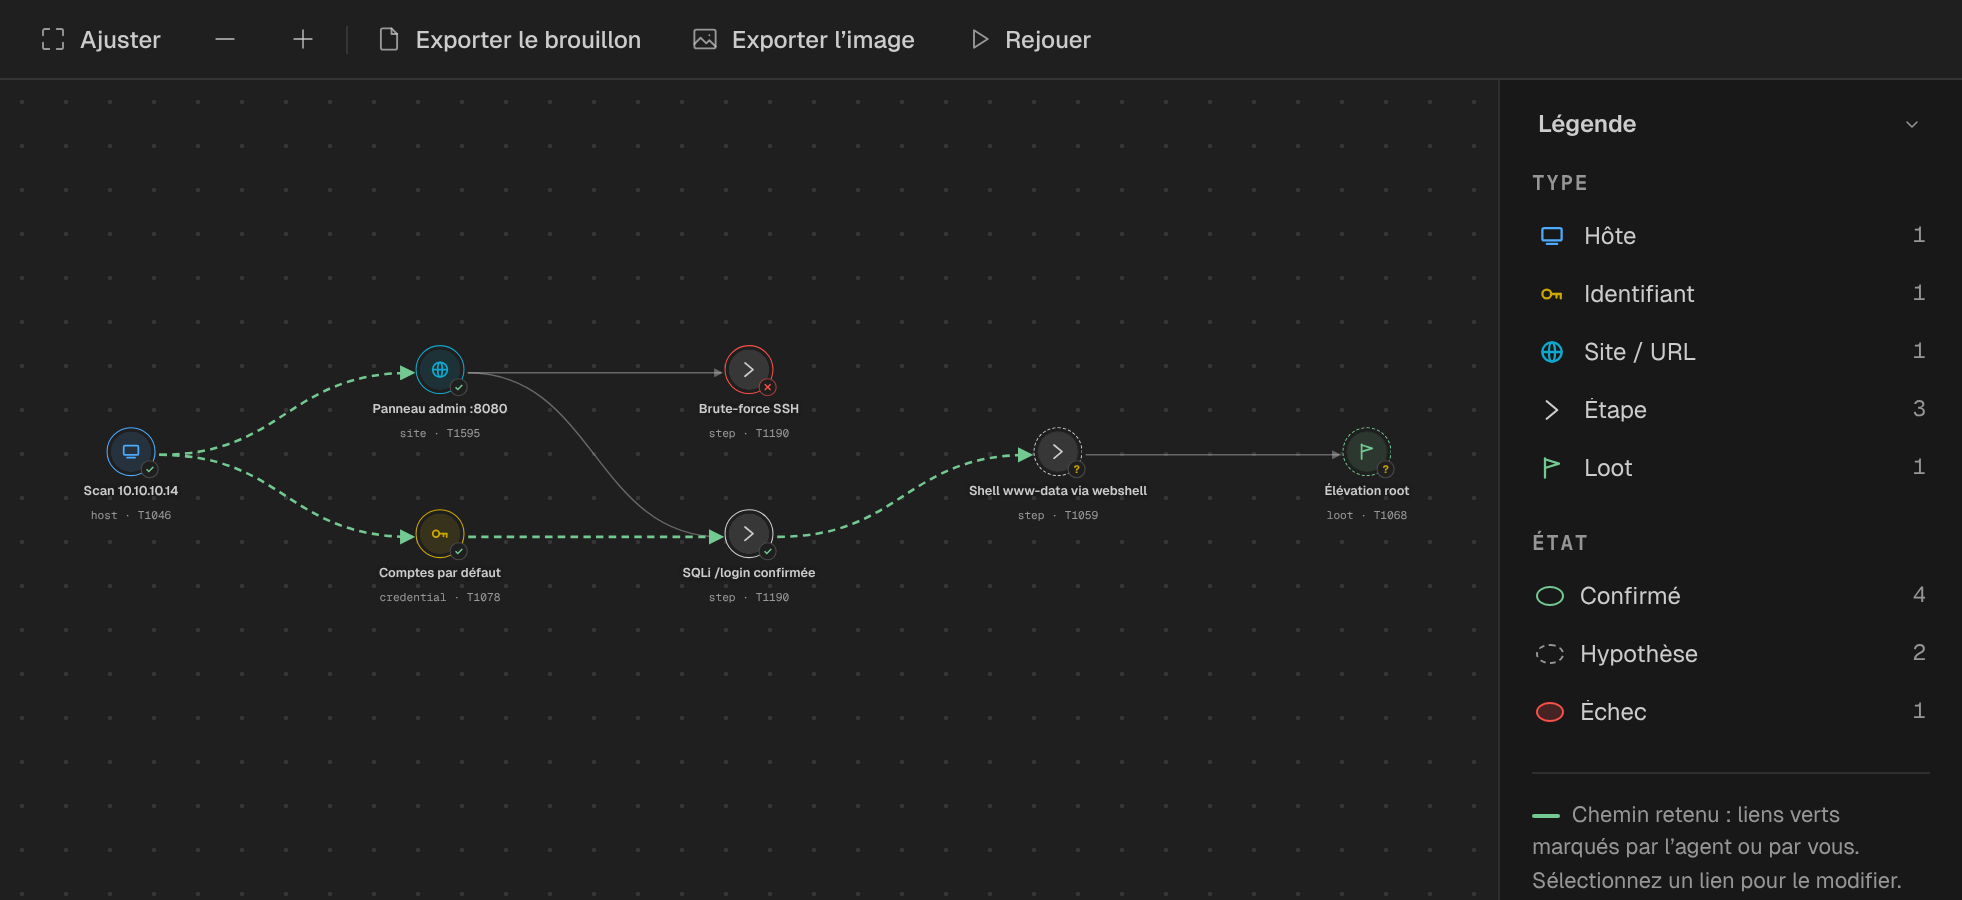
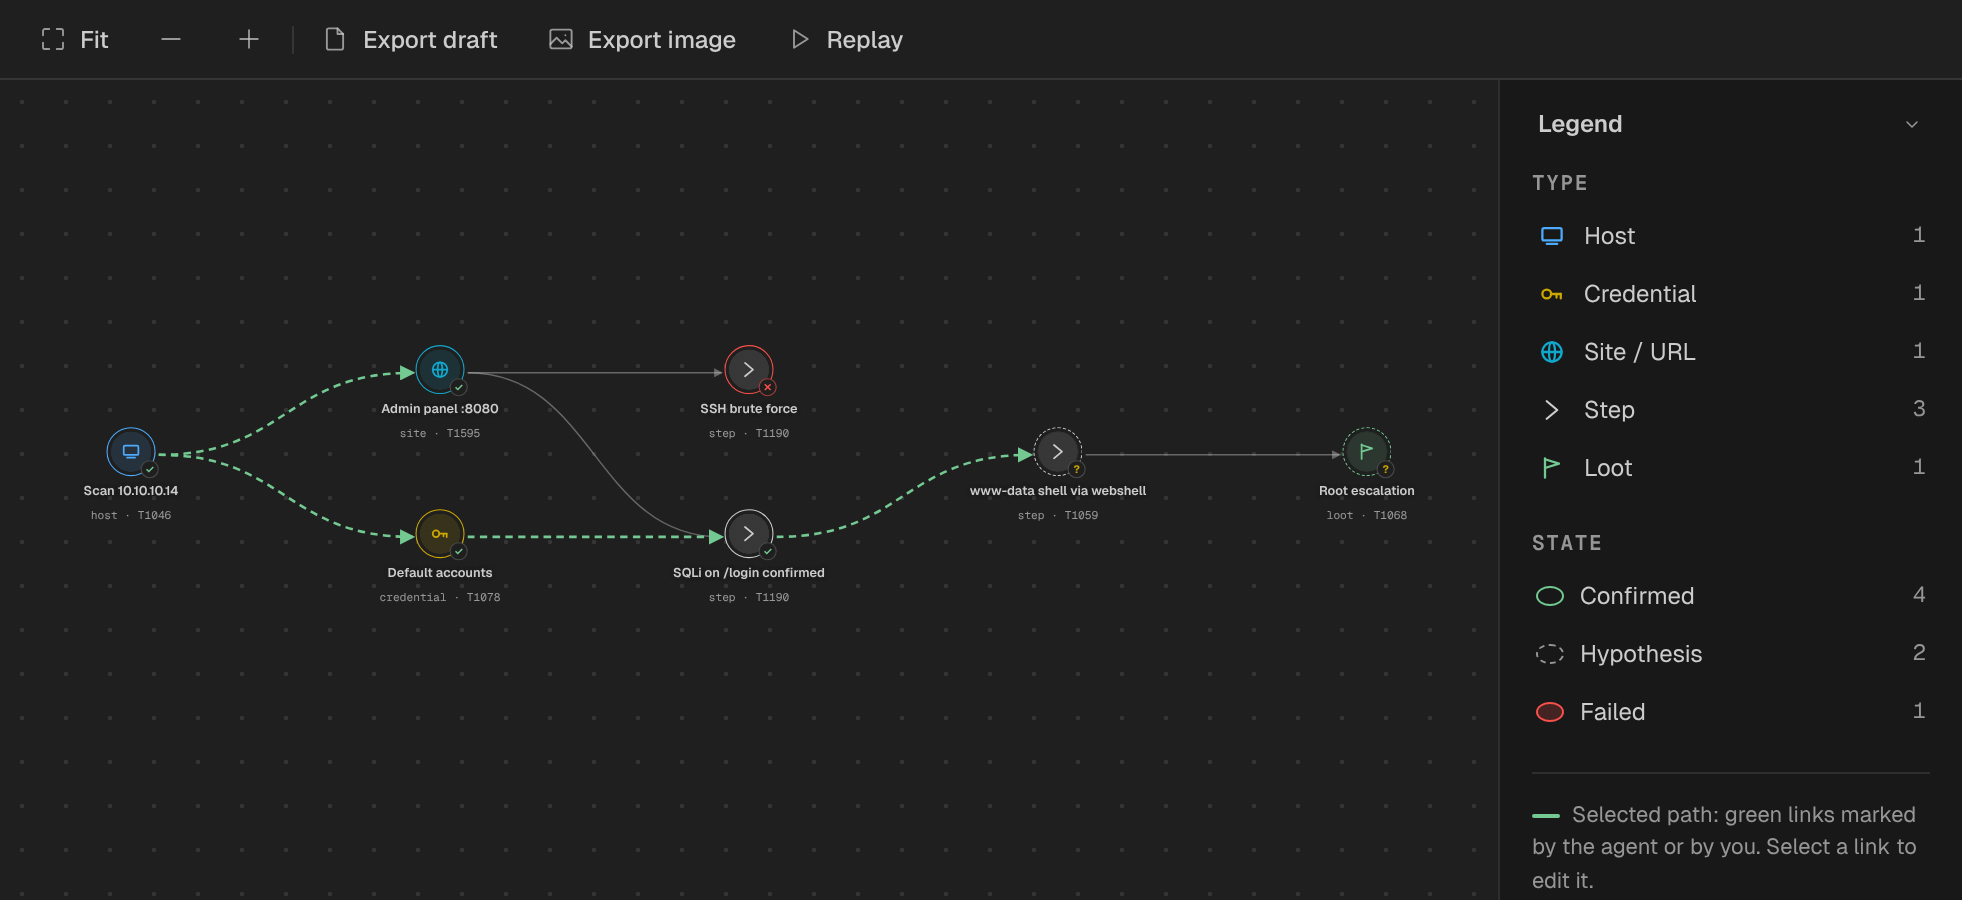
README en anglais, capture du chat en paysage
Le README est traduit en anglais, avec des captures en anglais (chat en
paysage, kill chain, Monitor, mode Apprentissage) et la bannière
« Your pentest. One cockpit. One agent. » sans badge. Les images
venator-ops-banniere et venator-ops-apprentissage sont renommées
venator-ops-banner et venator-ops-learning.

Seuls README.md et les images venator-ops-* de docs/img changent.

Claude-Session: https://claude.ai/code/session_01F7H1XGZHyAFoG5LN1doGUs

diff --git a/README.md b/README.md
@@ -1,172 +1,173 @@
 <div align="center">
 
-<img src="docs/img/venator-ops-logo.svg" alt="Logo Venator Ops" width="88" height="88">
+<img src="docs/img/venator-ops-logo.svg" alt="Venator Ops logo" width="88" height="88">
 
 # Venator Ops
 
-**Pentest dans VS Code, avec l’IA d’astreinte.**
+**Pentest in VS Code, with AI on call.**
 
-Tes conteneurs Docker Kali et Exegol, leurs terminaux, un Monitor, une kill chain
-et des rapports au même endroit. Un agent IA t’épaule quand tu l’appelles.
+Your Docker Kali and Exegol containers, their terminals, a Monitor, a kill chain
+and reports in one place. An AI agent backs you up whenever you call it.
 
-![Licence MIT](https://img.shields.io/badge/licence-MIT-3cc7c0.svg)
+![MIT license](https://img.shields.io/badge/license-MIT-3cc7c0.svg)
 ![VS Code 1.90+](https://img.shields.io/badge/VS%20Code-1.90%2B-495F73.svg)
-![Windows et Linux](https://img.shields.io/badge/Windows%20%7C%20Linux-495F73.svg)
-![Docker requis](https://img.shields.io/badge/Docker-requis-495F73.svg)
+![Windows and Linux](https://img.shields.io/badge/Windows%20%7C%20Linux-495F73.svg)
+![Docker required](https://img.shields.io/badge/Docker-required-495F73.svg)
 
 <br>
 
-<img src="docs/img/venator-ops-banniere.png" alt="Venator Ops : ton pentest, un seul cockpit, un seul agent" width="860">
+<img src="docs/img/venator-ops-banner.png" alt="Venator Ops: your pentest, one cockpit, one agent" width="860">
 
 </div>
 
 ---
 
-> **À utiliser uniquement dans un cadre autorisé** : CTF, labs de certification,
-> engagement avec périmètre et accord écrit.
+> **Use only in an authorized setting**: CTFs, certification labs, or an
+> engagement with a defined scope and written permission.
 
-## Pourquoi Venator Ops
+## Why Venator Ops
 
-Un pentest, c’est des dizaines de terminaux, de scans et de notes éparpillés.
-Venator Ops les rassemble dans VS Code :
+A pentest means dozens of terminals, scans and notes scattered everywhere.
+Venator Ops brings them together inside VS Code:
 
-- **Tes conteneurs Docker Kali et Exegol** se préparent et se pilotent depuis le cockpit.
-- **Tes terminaux** s’ouvrent directement dans le conteneur, comme n’importe quel terminal de l’éditeur.
-- **Le Monitor** suit chaque commande de l’agent : son état et sa sortie en direct.
-- **La kill chain** dessine ce que tu trouves : hôtes, identifiants, sites, étapes et butin, reliés entre eux, avec la technique MITRE ATT&CK de chaque étape.
-- **Un agent IA** lance les outils de ton conteneur, explique et propose des pistes.
+- **Your Docker Kali and Exegol containers** are prepared and managed from the cockpit.
+- **Your terminals** open straight inside the container, like any other editor terminal.
+- **The Monitor** follows every command the agent runs: its status and its live output.
+- **The kill chain** maps what you find: hosts, credentials, sites, steps and loot, linked together, with the MITRE ATT&CK technique of each step.
+- **An AI agent** runs the tools in your container, explains results and suggests next leads.
 
-## Ce que tu peux faire
+## What you can do
 
-### Travailler avec l’agent
+### Work with the agent
 
-Tu écris ta consigne dans le chat, l’agent s’occupe du reste. Quand une action
-demande ton accord, une carte indique l’outil, la commande et la raison.
-
-<div align="center">
-<img src="docs/img/venator-ops-chat.png" alt="Le chat Venator Ops avec une carte d’autorisation : outil, commande sqlmap, raison, et les boutons Autoriser une fois, Refuser, Toujours" width="380">
-</div>
-
-Dans le chat, tu disposes aussi de :
-
-- `@` pour citer un conteneur, `#` pour citer un terminal ouvert (l’agent lit sa sortie), `/` pour les commandes ;
-- jusqu’à **quatre conversations** en parallèle, et un **historique** filtré par projet ;
-- le choix du **modèle** et de l’**effort de raisonnement** pour le message suivant ;
-- la recherche sur le web (documentation, README, releases GitHub), avec les sources et la date de consultation.
-
-### Suivre l’exécution : le Monitor
-
-Chaque commande apparaît avec son état et sa sortie en direct. Une frise te
-permet de sauter à n’importe quelle commande ; la flèche vers le bas active ou
-suspend le suivi automatique.
+Write your prompt in the chat and the agent takes it from there. When an action
+needs your approval, a card shows the tool, the command and the reason.
 
 <div align="center">
-<img src="docs/img/venator-ops-monitor.png" alt="Le Monitor : une frise de commandes, l’entrée de la commande en cours et sa sortie numérotée" width="860">
+<img src="docs/img/venator-ops-chat.png" alt="The Venator Ops chat with an authorization card: tool, sqlmap command, reason, and the Allow once, Deny and Always buttons" width="860">
 </div>
 
-### Suivre ton attaque : la kill chain
+In the chat you also get:
 
-Hôtes, identifiants, sites, étapes, butin : chaque trouvaille a un **état**
-(confirmé, hypothèse, échoué), une **technique MITRE ATT&CK** et des liens de
-cause à effet avec les autres. Le graphe se parcourt à la souris et au clavier ;
-**Rejouer** déroule le chemin retenu nœud par nœud.
+- `@` to mention a container, `#` to mention an open terminal (the agent reads its output), `/` for commands;
+- up to **four conversations** in parallel, and a **history** filtered by project;
+- a choice of **model** and **reasoning effort** for the next message;
+- web search (documentation, READMEs, GitHub releases), with sources and the date they were read.
+
+### Follow the execution: the Monitor
+
+Each command shows up with its status and live output. A timeline lets you jump
+to any command, and the down arrow turns auto-follow on or off.
 
 <div align="center">
-<img src="docs/img/venator-ops-killchain.png" alt="La kill chain : un graphe de trouvailles reliées, le chemin retenu en pointillés verts, et la légende" width="860">
+<img src="docs/img/venator-ops-monitor.png" alt="The Monitor: a timeline of commands, the entry of the running command and its numbered output" width="860">
 </div>
 
-### Apprendre : le mode Apprentissage
+### Follow your attack: the kill chain
 
-Tu bloques sur une box HTB ? Donne-lui ton cours, cite ta session de terminal
-avec `#`, et il t’explique où tu en es à partir de ce que tu as vraiment tapé.
-Le mode est en lecture seule : il cite ses sources et te met sur la piste.
+Hosts, credentials, sites, steps, loot: every finding has a **state**
+(confirmed, hypothesis, failed), a **MITRE ATT&CK technique** and cause-and-effect
+links to the others. The graph works with mouse and keyboard, and **Replay**
+walks the selected path node by node.
 
 <div align="center">
-<img src="docs/img/venator-ops-apprentissage.png" alt="Mode Apprentissage : « Bloqué sur une box ? Donne-lui ton cours. Il lit ton terminal. », avec le terminal et le chat" width="860">
+<img src="docs/img/venator-ops-killchain.png" alt="The kill chain: a graph of linked findings, the selected path as green dashes, and the legend" width="860">
 </div>
 
-### Garder une trace et rédiger
+### Learn: Learning mode
 
-Chaque mission est consignée dans un journal que tu peux relire. L’**aperçu du
-rapport** présente les trouvailles du projet actif, sans identifiants ni butin,
-et l’export produit un **brouillon Markdown** à compléter avec tes preuves et
-tes remédiations. Les gravités restent « À évaluer » : tu les décides toi-même.
-Aucun outil de rapport externe n’est nécessaire.
+Stuck on an HTB box? Give it your course, mention your terminal session with
+`#`, and it explains where you stand based on what you actually typed. The mode
+is read-only: it cites its sources and points you in the right direction.
 
-## Sans IA
+<div align="center">
+<img src="docs/img/venator-ops-learning.png" alt="Learning mode: “Stuck on a box? Feed it your course. It reads your terminal.”, with the terminal and the chat" width="860">
+</div>
 
-Venator Ops sert à organiser ton pentest même sans compte ni fournisseur d’IA.
+### Keep a record and write it up
 
-- **Des projets** : un nom, un dossier de travail et les conteneurs qui vont avec, avec un résumé que tu rédiges et modifies toi-même.
-- **Le cockpit** : crée, démarre, arrête et associe tes conteneurs Docker Kali et Exegol. Les images Kali sont préparées pour toi.
-- **Tes terminaux dans le conteneur** : ouvre un terminal dans Kali ou Exegol depuis VS Code et travaille comme d’habitude.
-- **La kill chain** : parcours le graphe des trouvailles du projet, marque le chemin retenu et rejoue-le.
-- **Le brouillon de rapport** : aperçu et export Markdown.
+Every mission is logged so you can read it back. The **report preview** shows
+the active project's findings without credentials or loot, and the export
+produces a **Markdown draft** to complete with your evidence and remediations.
+Severities stay “To be assessed”: you decide them yourself. No external
+reporting tool is needed.
 
-Le jour où tu veux de l’aide, ajoute un fournisseur dans **Configurer** : le
-chat, le Monitor et l’alimentation automatique de la kill chain s’appuient alors
-sur l’agent.
+## Without AI
+
+Venator Ops helps you organize a pentest even without an account or an AI
+provider.
+
+- **Projects**: a name, a working folder and the containers that go with it, with a summary you write and edit yourself.
+- **The cockpit**: create, start, stop and link your Docker Kali and Exegol containers. Kali images are prepared for you.
+- **Your terminals in the container**: open a terminal in Kali or Exegol from VS Code and work as usual.
+- **The kill chain**: browse the project's findings graph, mark the selected path and replay it.
+- **The report draft**: preview and Markdown export.
+
+The day you want some help, add a provider in **Configure**: the chat, the
+Monitor and the automatic feeding of the kill chain then rely on the agent.
 
 ## Installation
 
-Prérequis : **VS Code 1.90 ou plus** et **Docker** pour les conteneurs.
+Requirements: **VS Code 1.90 or later** and **Docker** for the containers.
 
-1. Télécharge le fichier `.vsix` de ta plateforme (**Windows** ou **Linux**) dans les [releases](https://github.com/tomtimlt/warband/releases).
-2. Installe-le : `code --install-extension <fichier>.vsix`, ou dans VS Code **Extensions → … → Installer à partir d’un VSIX**.
-3. Recharge la fenêtre VS Code.
+1. Download the `.vsix` file for your platform (**Windows** or **Linux**) from the [releases](https://github.com/tomtimlt/warband/releases).
+2. Install it: `code --install-extension <file>.vsix`, or in VS Code **Extensions → … → Install from VSIX**.
+3. Reload the VS Code window.
 
-Venator Ops n’est pas encore sur le Marketplace : l’installation se fait à la main.
+Venator Ops is not on the Marketplace yet: installation is manual.
 
-## Premier lancement
+## First launch
 
-1. Ouvre un **dossier de confiance** dans VS Code.
-2. Ouvre **Réglages → Projet** : active un projet ou crée-le (un nom et un dossier).
-3. Dans le **cockpit**, associe les conteneurs Kali ou Exegol du projet, ou crée-les.
-4. Pour utiliser l’agent, ouvre **Configurer** dans le chat, choisis ton fournisseur et ajoute ton accès. Il est stocké dans le stockage sécurisé de VS Code.
-5. Ouvre le chat (icône Venator Ops de la barre d’activité) et écris ta consigne.
+1. Open a **trusted folder** in VS Code.
+2. Open **Settings → Project**: activate a project or create one (a name and a folder).
+3. In the **cockpit**, link the project's Kali or Exegol containers, or create them.
+4. To use the agent, open **Configure** in the chat, pick your provider and add your access. It is stored in VS Code's secure storage.
+5. Open the chat (the Venator Ops icon in the activity bar) and write your prompt.
 
-| Raccourci | Action |
+| Shortcut | Action |
 | --- | --- |
-| `Alt+J Alt+J` | Lanceur |
-| `Alt+J C` | Chat latéral |
-| `Alt+J N` | Nouveau chat dans l’éditeur |
+| `Alt+J Alt+J` | Launcher |
+| `Alt+J C` | Side chat |
+| `Alt+J N` | New chat in the editor |
 | `Alt+J K` | Cockpit |
 | `Alt+J M` | Monitor |
-| `Alt+J S` | Réglages |
+| `Alt+J S` | Settings |
 
-## Questions fréquentes
+## FAQ
 
-**Quels fournisseurs d’IA sont compatibles ?**
-**Claude** (jeton d’abonnement ou clé API), **OpenAI** (abonnement ChatGPT ou clé API) et **OpenCode**, qui ouvre aussi la porte à Gemini, à des modèles locaux avec Ollama et à des points d’accès compatibles. Tu peux changer de fournisseur en gardant la même conversation.
+**Which AI providers are supported?**
+**Claude** (subscription token or API key), **OpenAI** (ChatGPT subscription or API key) and **OpenCode**, which also opens the door to Gemini, local models through Ollama and compatible endpoints. You can switch provider and keep the same conversation.
 
-**Sur quels systèmes ça fonctionne ?**
-Windows (natif, sans WSL) et Linux.
+**Which systems does it run on?**
+Windows (native, no WSL) and Linux.
 
-**Où sont mes données ?**
-Les journaux de conversation sont stockés par VS Code sur ta machine, hors de ton dépôt. L’historique conserve environ les 100 dernières conversations, et les mots de passe, jetons et clés sont masqués avant d’être enregistrés.
+**Where is my data?**
+Conversation logs are stored by VS Code on your machine, outside your repository. The history keeps roughly the last 100 conversations, and passwords, tokens and keys are masked before anything is written to a log.
 
-**À quoi sert le Bypass ?**
-À enchaîner une longue séquence sans cliquer à chaque carte : il se règle dans **Configurer**, dure 2 h par défaut (4 h au plus) et s’affiche en magenta avec un compte à rebours.
+**What is Bypass for?**
+Running a long sequence without clicking on every card. It is set in **Configure**, lasts 2 hours by default (4 hours at most) and is shown in magenta with a countdown.
 
-**Y a-t-il des profils pour mon contexte ?**
-Oui : des profils de méthode (mentor, bug bounty, out of the box, red team, HTB) orientent l’agent.
+**Are there profiles for my context?**
+Yes: method profiles (mentor, bug bounty, out of the box, red team, HTB) steer the agent.
 
-**L’interface s’adapte à mon thème ?**
-Oui : thèmes clair, sombre et contraste élevé, mouvement réduit respecté, cinq jeux de couleurs au choix dans **Réglages → Apparence**.
+**Does the interface follow my theme?**
+Yes: light, dark and high-contrast themes, reduced motion respected, and five color sets to choose from in **Settings → Appearance**.
 
-## Statut
+## Status
 
-Projet personnel en développement actif. La version publiée s’installe à la main (`.vsix`) et n’a pas encore été éprouvée dans toutes les configurations de VS Code (fenêtres distantes, version web). Les limites connues sont détaillées dans le [guide de l’extension](docs/extension-vscode.md#limites-connues).
+A personal project under active development. The published version is installed by hand (`.vsix`) and has not yet been tried in every VS Code setup (remote windows, web version). Known limitations are listed in the [extension guide](docs/extension-vscode.md#limites-connues).
 
-## Aller plus loin
+## Going further
 
 | | |
 | --- | --- |
-| [Guide de l’extension](docs/extension-vscode.md) | Installation, usage et limites |
-| [État du projet](docs/etat-du-projet.md) | Ce qui existe et ce qui reste à faire |
-| [Ligne de commande](docs/cli.md) | Pilotage et politique d’approbation hors de VS Code |
-| [Développer](docs/adr/README.md) | Pour les développeurs : décisions d’architecture et organisation du code |
+| [Extension guide](docs/extension-vscode.md) | Installation, usage and limitations |
+| [Project status](docs/etat-du-projet.md) | What exists and what is left to do |
+| [Command line](docs/cli.md) | Driving the engine and the approval policy outside VS Code |
+| [Development](docs/adr/README.md) | For developers: architecture decisions and code layout |
 
-## Licence
+The detailed documentation is currently written in French.
+
+## License
 
 [MIT](LICENSE).
